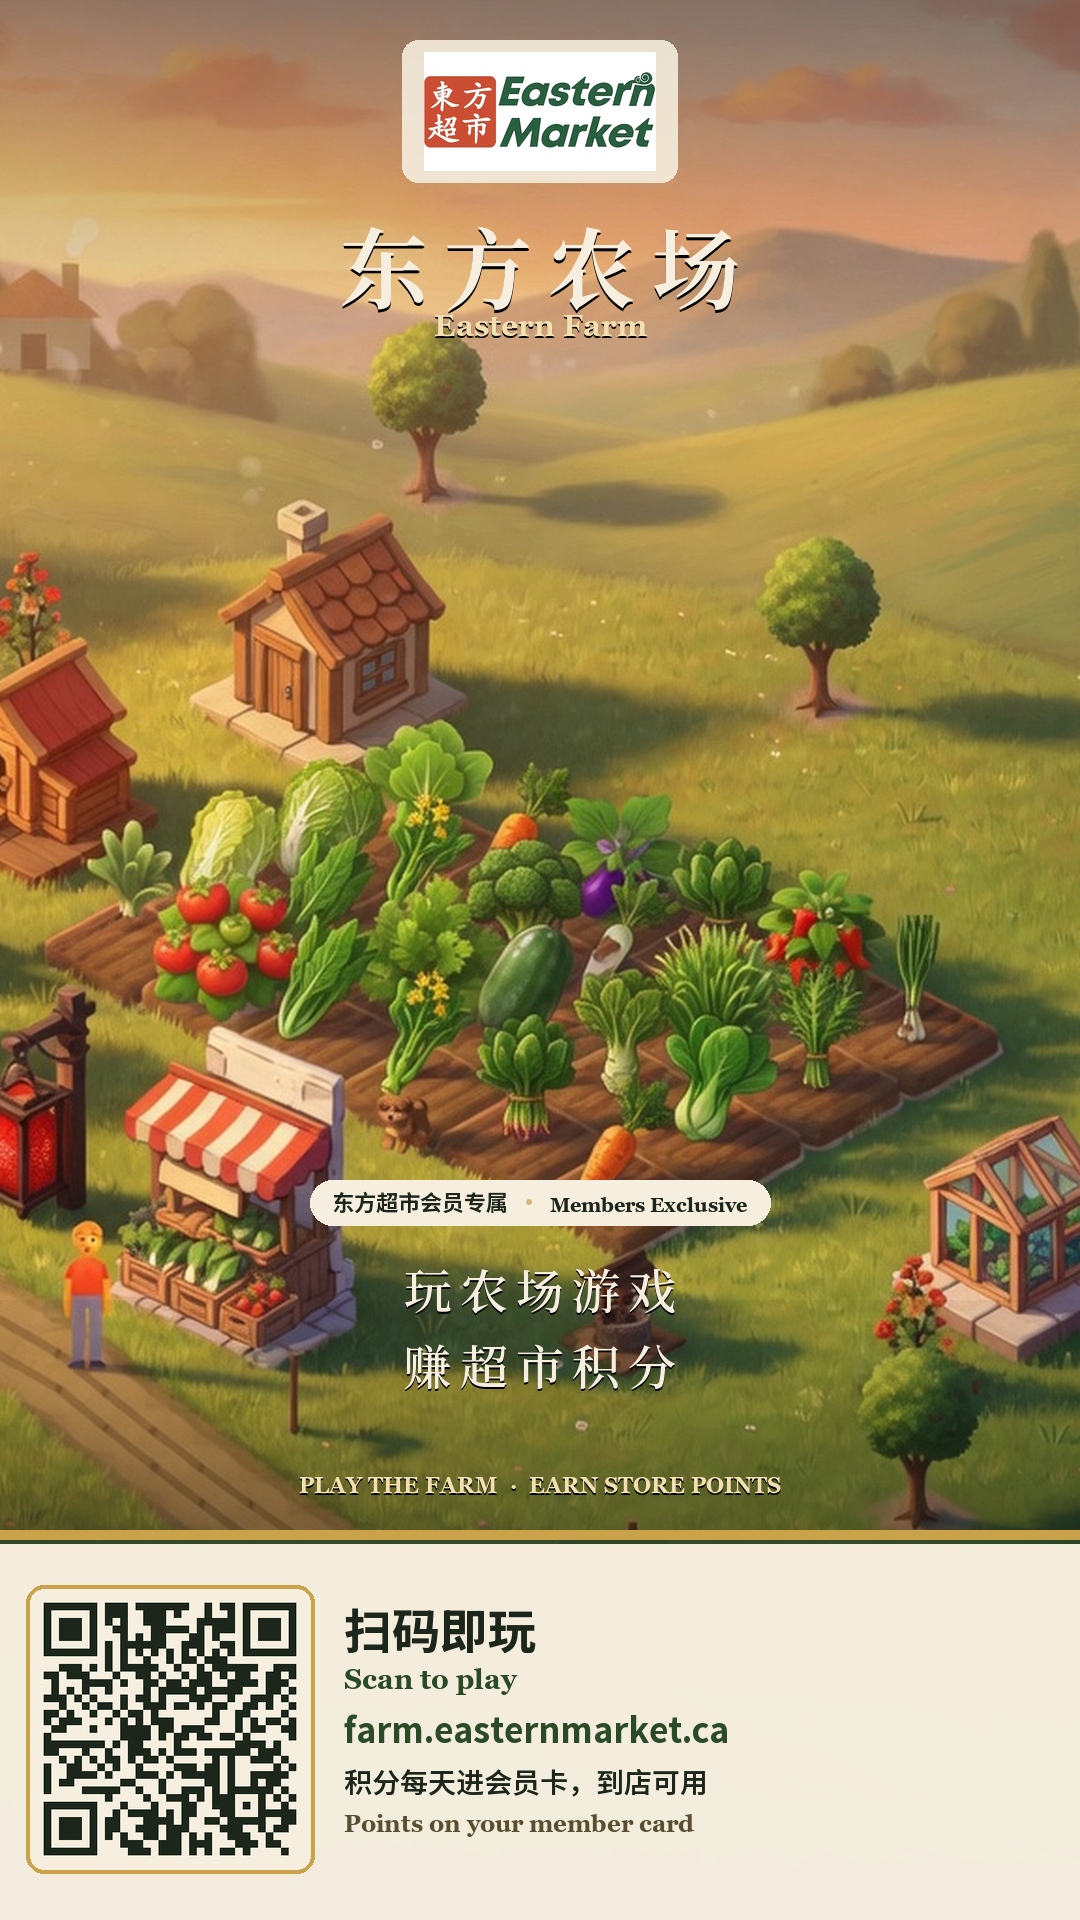
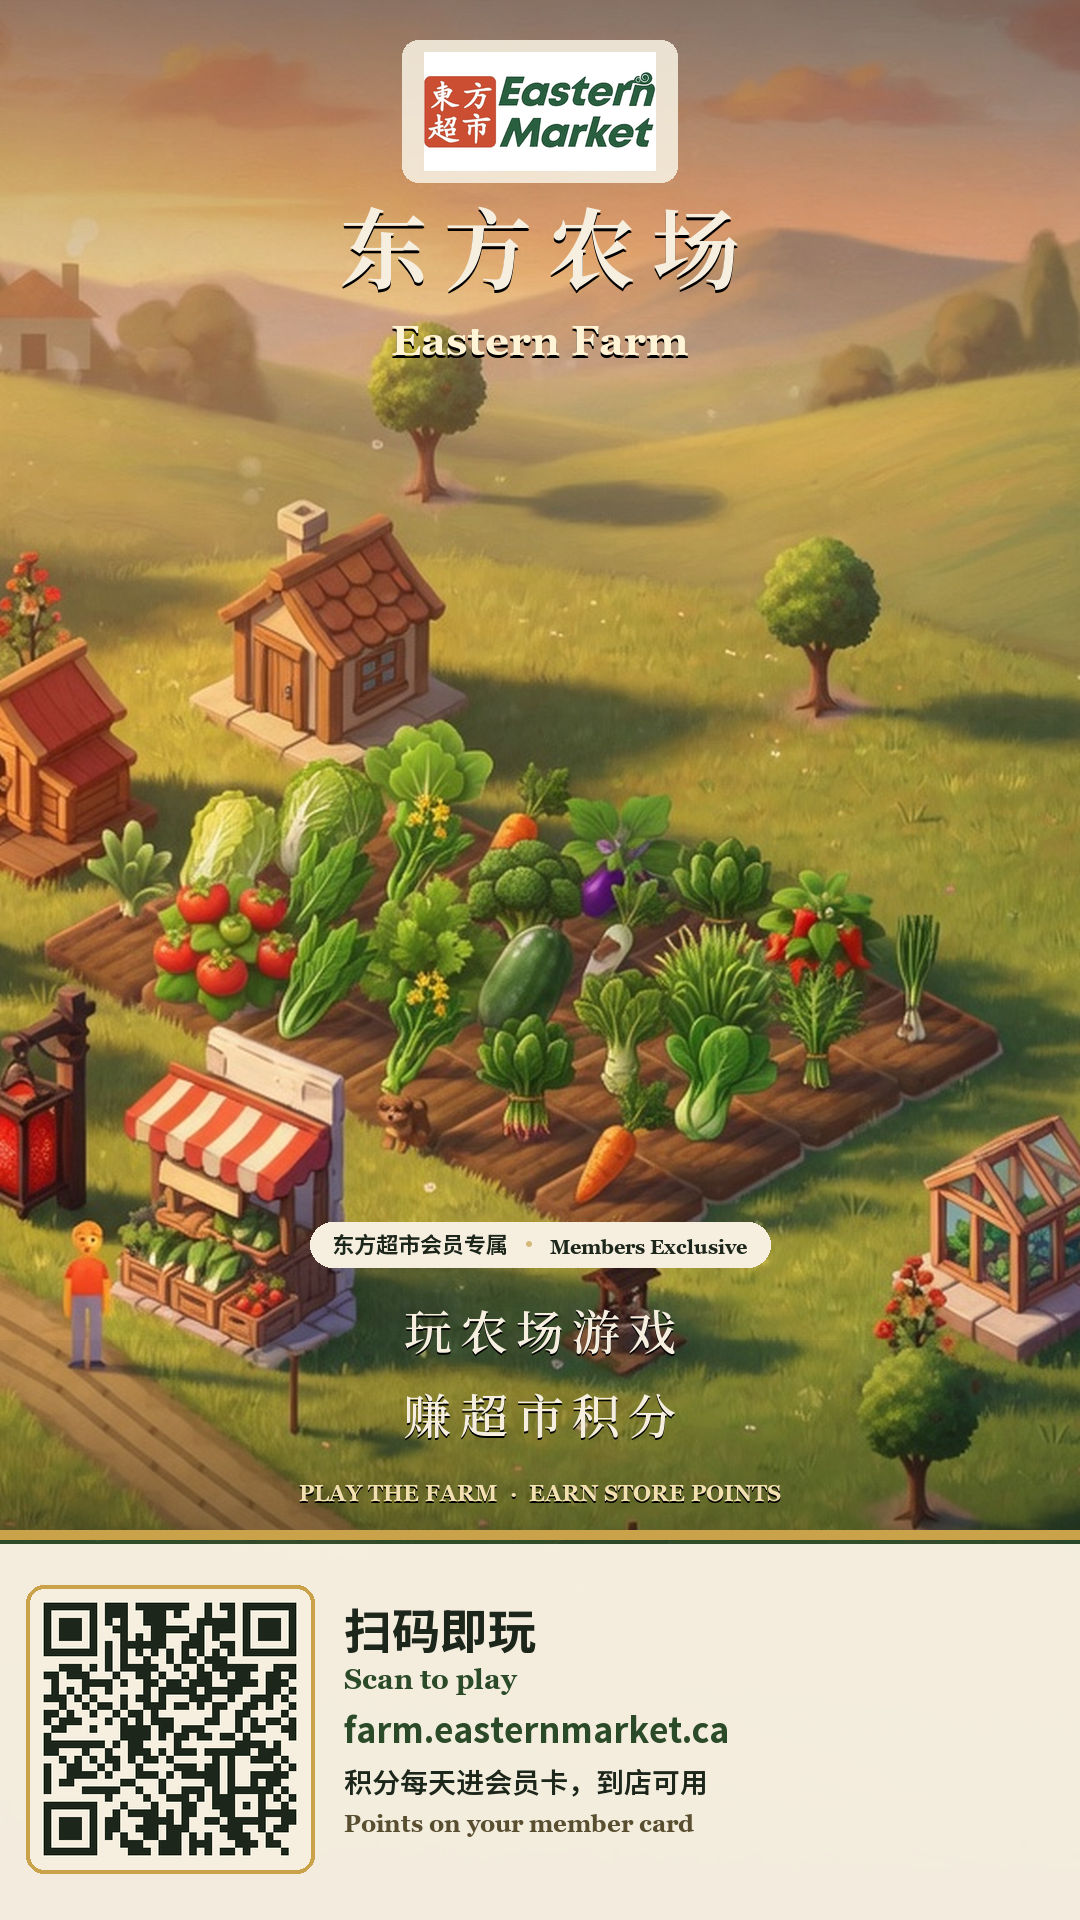
04c：Eastern Farm 加大留距；下区三层下移靠向英文
店名与英文副标拉开。胶囊/对联收成一组靠近利益句，对联到英文仍留气口。

Changed region(s): [[0.275, 0.5938, 0.7333, 0.7812], [0.3056, 0.0938, 0.7028, 0.1875]]

diff --git a/scripts/_make_poster_onart_04.py b/scripts/_make_poster_onart_04.py
@@ -95,14 +95,24 @@ def variant_b():
 
 def variant_c():
     """只上移店名：东方农场上天；胶囊+对联仍贴扫码栏。"""
-    canvas, draw, W, H, f = base(380, 620)
-    draw_name(draw, 200, W, f)
+    canvas, draw, W, H, f = base(400, 580)
+    # 天头：店名 88 → 空一截 → 更大的 Eastern Farm，不贴中文
+    name_y = 180
+    spaced(draw, '东方农场', name_y, f['name'], CREAM, 16, W, shadow=(0, 3, (0, 0, 0, 150)))
+    en_name = ImageFont.truetype(GEORGIA, 42)
+    center(draw, 'Eastern Farm', name_y + 136, en_name, (255, 244, 214), W,
+           shadow=(0, 3, (0, 0, 0, 170)))
+
+    # 下区收成一组靠向英文。对联内 ~28px 气口，对联到英文 ~44px，不贴死
     bar_top = H - 390
-    by = kicker_pill(draw, bar_top - 350, W, f['kick_zh'], f['kick_en'])
-    # 下区字阶：胶囊 → 空 → 对联两行拉开 → 再空一截 → 英文贴扫码栏上沿
-    spaced(draw, '玩农场游戏', by + 28, f['title'], CREAM, 8, W, shadow=(0, 2, (0, 0, 0, 140)))
-    spaced(draw, '赚超市积分', by + 104, f['title'], CREAM, 8, W, shadow=(0, 2, (0, 0, 0, 140)))
-    center(draw, 'PLAY THE FARM  ·  EARN STORE POINTS', bar_top - 58, f['en_line'],
+    en_y = bar_top - 50
+    zh2_y = en_y - 102
+    zh1_y = zh2_y - 84
+    kick_y = zh1_y - 72
+    kicker_pill(draw, kick_y, W, f['kick_zh'], f['kick_en'])
+    spaced(draw, '玩农场游戏', zh1_y, f['title'], CREAM, 8, W, shadow=(0, 2, (0, 0, 0, 140)))
+    spaced(draw, '赚超市积分', zh2_y, f['title'], CREAM, 8, W, shadow=(0, 2, (0, 0, 0, 140)))
+    center(draw, 'PLAY THE FARM  ·  EARN STORE POINTS', en_y, f['en_line'],
            (243, 224, 176), W, shadow=(0, 2, (0, 0, 0, 150)))
     save(scan_bar(canvas, W, H), 'poster-phone-onart-04c')
 
